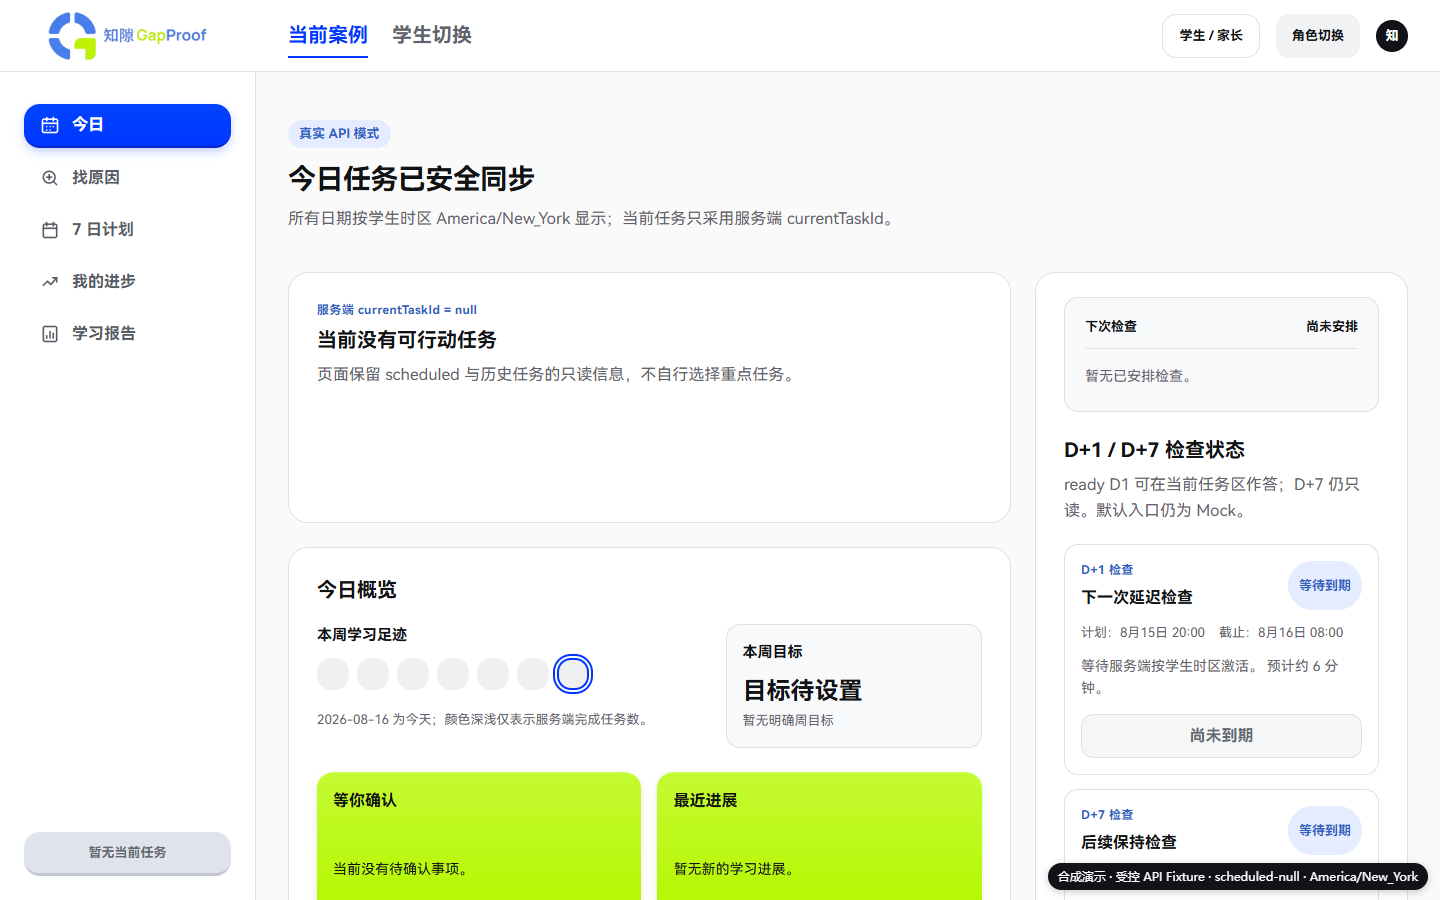
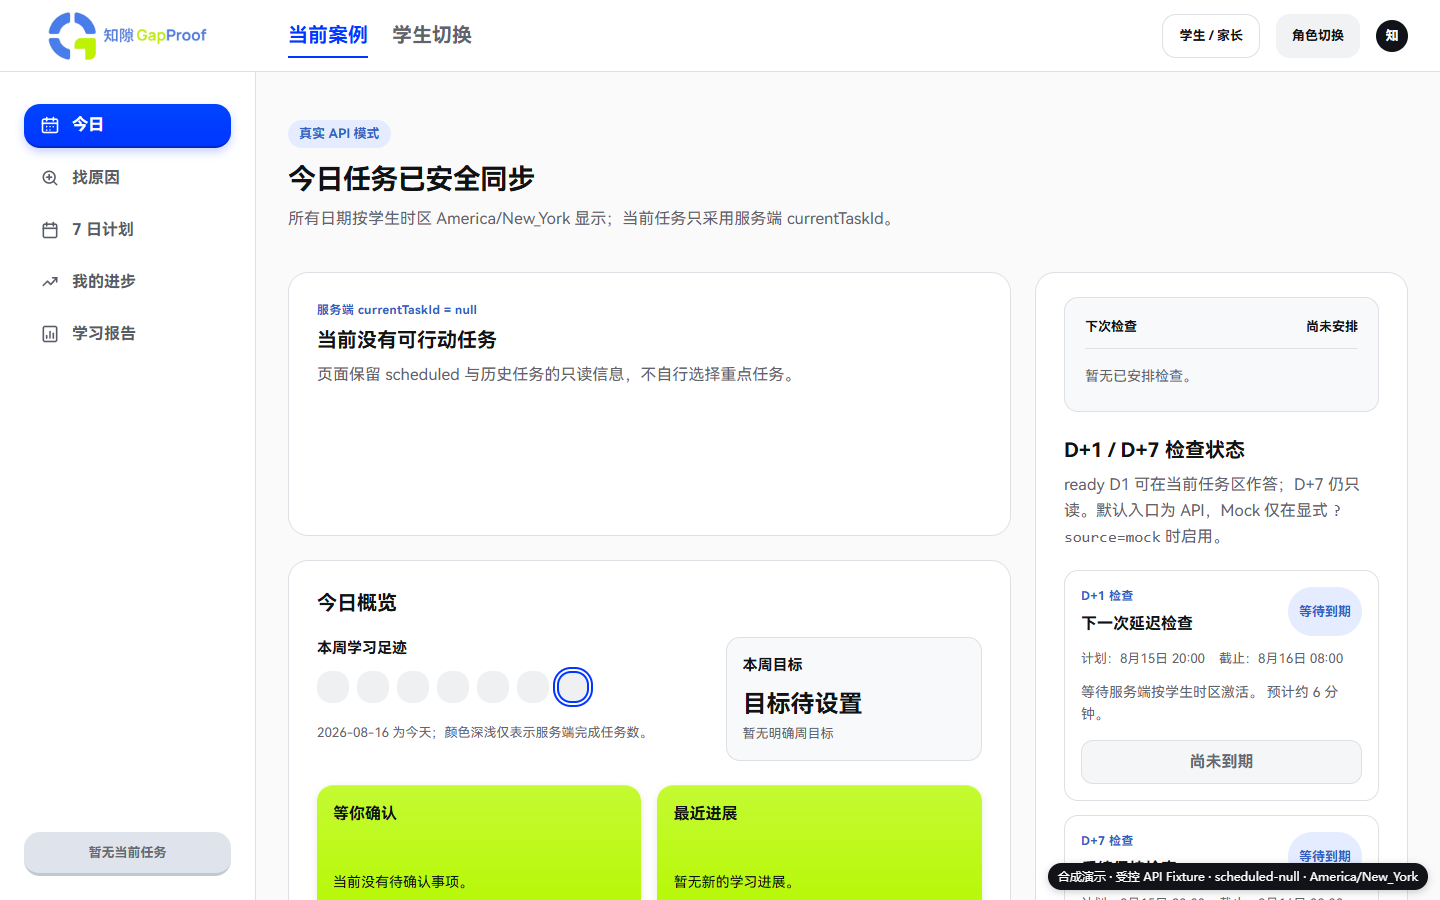
feat: complete guided tasks and cap retest replans

diff --git a/PROJECT_MASTER.md b/PROJECT_MASTER.md
@@ -2,9 +2,9 @@
 project_name: "知隙 GapProof"
 document_title: "GapProof 项目主文档（Project Master / 单一事实源）"
 document_role: "跨窗口协作、产品规划、技术设计、比赛交付与状态管理的唯一主文档"
-version: "0.1.31"
+version: "0.1.32"
 status: "ACTIVE"
-current_stage: "项目本身初赛验收冲刺；PUSH-016 合成识别确认演示与 Fake OCR Demo 守卫已通过最终门禁并发布；真实 OCR/识别写入接口仍待冻结"
+current_stage: "项目本身初赛验收冲刺；PUSH-017 引导任务完成与 D7/两次重排封顶已通过门禁待发布；D7 前端作答和显式识别创建 Case 仍待实现"
 last_updated: "2026-08-15"
 timezone: "Asia/Singapore"
 owner: "项目发起人"
@@ -143,7 +143,7 @@ next_action:
 
 `[FACT]` GOAI 无界应用赛道参赛手册列出的初赛截止日期为 2026-08-16；具体当天截止时刻、入口、文件大小及后续通知仍须在官网、提交系统或官方群再次核对。
 
-`[DECISION]` 当前处于：**项目本身初赛验收冲刺；学生端“今日”页默认入口已接入真实 API 的 ready D1 客户端作答与真实概览投影。`/materials/new` 已在真实字节上传后接入异步、确定性的图片基础检查。PUSH-016 进一步把遗留 Fake OCR 限定为 `simulation && synthetic` 的 Demo Case，并增加 `/materials/demo/review` 无网络合成识别确认演示；该页面只在本地编辑和记录演示确认，不调用 API、不启动 OCR、不创建或推进 Case，也不生成学习结论。真实上传到 Case 的绑定、识别结果读取 DTO、真实 OCR Provider 与识别确认写入仍未冻结或实现。D7 与重排/报告未决策边界保持暂停**。
+`[DECISION]` 当前处于：**项目本身初赛验收冲刺；学生端“今日”页默认入口已接入真实 API，ready guided 与 D1 均有受控提交，服务端已实现 D7 客观复测、最多两次规则化合成重排和 `support_required` 封顶。D7 前端作答仍未接入。当前初赛项目验收允许使用醒目标注的合成 OCR Demo；真实阿里云 OCR 后置。图片基础检查后必须由用户显式执行“开始识别并创建案例”，该真实 Case/OCR 写入契约尚未冻结或实现。异步报告不属于本轮项目验收；`report_ready` 仅保留“报告已生成、有权威引用且当前可读”的严格语义**。
 
 ### 1.2 已完成
 
@@ -175,7 +175,7 @@ next_action:
 - `[RESULT]` 完成干预的同一 PostgreSQL 事务现同时写入 D+1 延迟 `retest.due` Job；独立 Worker 使用 `SystemClock`，仅在 `scheduledFor <= now` 时将指定 Case 的 `d1_retest` 从 `scheduled` 原子激活为 `ready`，重复与并发执行不会产生重复效果。
 - `[RESULT]` 已实现受 `GAPPROOF_DEMO_CLOCK_ENABLED=true` 保护的 `POST /v1/demo/clock/advance`。它为每个合成 Demo Case 持久化独立、带版本的虚拟时间线，可快进并在同一事务激活该 Case 的到期复测、写入 `demo_clock_advanced` 审计；不修改操作系统时间，也不改变 Case 的 `d1_scheduled`、`stateVersion` 或 `pending_retest` mastery。
 - `[RESULT]` 已实现 `GET /v1/tasks/{taskId}` 与 `POST /v1/tasks/{taskId}/attempts` 的 D1 客观复测最小切片。服务端用私有答案执行 `exact-choice-v1`：通过时原子完成 D1、追加 `retest_evaluated { kind:"d1", passed:true }`，并按 `evaluatedAt + 144h` 创建 D7、再给出 12 小时窗口；失败时原子进入 `replan_required` 并入队 `case.replan`，由 Worker 异步生成合成干预骨架。公开响应不含答案键，幂等、并发与乐观锁已有测试覆盖。
-- `[RESULT]` Today contracts 已扩展为服务端学生 `timeZone`、`currentTaskId: uuid | null` 与 guided/D1/D7 判别联合；只有服务端判定的 ready D1 或 guided 任务可成为当前任务。F1c 对 ready D1 使用共享 attempts contracts、权威 Case 版本和 UUIDv7 幂等意图提交；D7 在 attempts 未实现前保持只读。
+- `[RESULT]` Today contracts 已扩展为服务端学生 `timeZone`、`currentTaskId: uuid | null` 与 guided/D1/D7 判别联合；服务端可选择 ready D1/D7/guided。前端已安全提交 guided 与 D1，D7 后端 attempts 已实现但页面仍只读。
 - `[RESULT]` Today API 现始终返回真实只读 `overview`：学生时区下连续 7 日完成数、明确目标或 `null`、待确认数、最多两条脱敏进展与最早 scheduled D1/D7 检查。显式 API 页面严格消费该投影，缺失时受控报错且不回退 Mock；当前数据库没有权威周目标，因此 API 返回 `weeklyGoal:null`，不得从任务或视觉稿推断。
 - `[RESULT]` PostgreSQL `app.source_assets` 与 0006/0007 migrations 保存对象键、SHA-256、MIME、大小、所有权/保留期、处理状态、确定性质量结果与更新时间，不保存文件字节、OCR 文本或答案。共享上传/prepare/status contracts、Fastify 创建/内容 PUT/prepare/读取、HMAC 短期授权、受控目录 `StorageAdapter`、`source_asset.quality_check` Worker 与 `/materials/new` 已形成受测的真实字节上传和图片基础检查闭环；Worker 从存储重新读取并验证字节，解析 JPEG/PNG/WebP header/尺寸，公开响应不含对象键、token、文件名、hash 或 OCR 内容。当前实现是本地 Demo 存储与 `image-header-v1` 检查器，不是生产 S3、完整图片质量模型、OCR，也不会创建 Case 或形成学习结论。
 - `[RESULT]` 遗留 `run-next` Fake OCR 现在由 API 入队前与 Worker 执行时双重守卫，只允许 `simulation=true && synthetic=true` 的 Demo Case；非 Demo Case 返回 `DEMO_CASE_REQUIRED` 且不入队、不写证据。`/materials/demo/review` 提供明确标注的合成识别结果、低置信“请确认”、本地编辑、空态和错误态演示；受控浏览器 Fixture 证明全程零 `/api/v1` 请求。它不是上传后真实识别页面，不会写 Case 或产生学习结论。
@@ -187,7 +187,7 @@ next_action:
 - `[PLANNED]` 尚未建立 30–40 个技能节点及 12 个深度节点的图谱 V0.1。
 - `[PLANNED]` 尚未制作比赛用原创模拟试卷、合成学生轨迹和独立金标集。
 - `[PLANNED]` 尚未确认至少一位英语教育背景人员能否短时抽检核心金标内容。
-- `[PROTOTYPE]` 已建立最小后端 Thin Slice，并完成真实图片字节上传、确定性图片 header/尺寸质量检查、受 Demo 守卫的 Fake OCR、无网络合成识别确认演示、确定性干预生成、今日任务查询、干预提交、D+1 调度/到期/客观评分及失败后的异步重排骨架；尚未形成从真实 OCR 识别到报告的完整端到端 Demo。真实上传到 Case 的绑定、识别读取/确认写入、真实 AI 干预、真实题库、D7 作答评分、可执行的重排上限、真实个性化重排内容、通知和报告仍未实现。
+- `[PROTOTYPE]` 已建立最小后端 Thin Slice，并完成真实图片字节上传、确定性图片 header/尺寸质量检查、受 Demo 守卫的 Fake OCR、无网络合成识别确认演示、确定性干预生成、guided/D1 前端提交、D1/D7 后端评分及两次规则化重排封顶；尚未形成从真实 OCR 识别到修复证明的完整端到端 Demo。显式 Case/OCR 启动、识别读取/确认写入、真实 AI 干预、真实题库、D7 前端、真实个性化内容与通知仍未实现；异步报告本轮 deferred。
 - `[PROTOTYPE]` 学生端“今日”页 F0 Mock、F1b 只读 API、F1c ready D1 客户端作答及真实概览投影已完成对应技术门禁；受控 HTTP 浏览器 Fixture 已证明成功、冲突和网络未知三条交互边界。默认入口现为 API，只有显式 `?source=mock` 使用合成页面；业务主闭环仍未完成，其余学生 P0 页面、家长端页面和评委最小页仍未完成。
 - `[PLANNED]` 尚未完成正式 500 字简介、初赛 PPT、视频、README、数据卡、依赖清单和合规一页纸。
 - `[PLANNED]` 尚未产生可报告的工程评测结果或真实学生学习效果。
@@ -2025,11 +2025,11 @@ review_date:
 | DEC-028 | MVP Agent 固定为六节点 LangGraph.js 图 | accepted | 新增节点必须更新图版本、Schema 和 Golden Cases |
 | DEC-029 | 所有工具先完成接口、Schema、Mock 和错误处理；verify_item/schedule_retest 做 MVP 最小实现 | accepted | 工具边界或 Provider 能力变化 |
 | DEC-030 | escalate_human 先创建待处理记录；analyze_speech/score_writing 暂缓真实能力 | accepted | 真实人工、语音或写作试点启动 |
-| DEC-031 | UUIDv7 + PostgreSQL 16+，完整表结构和删除策略以 TDD v0.3.24 为准 | accepted | 数据规模、扩展支持或合规要求变化 |
+| DEC-031 | UUIDv7 + PostgreSQL 16+，完整表结构和删除策略以 TDD v0.3.25 为准 | accepted | 数据规模、扩展支持或合规要求变化 |
 | DEC-032 | TDD 详细 API 路由为唯一正式接口 | accepted | API 版本升级或新客户端边界产生 |
 | DEC-033 | 杭州阿里云单区域联网 Docker Compose，真实 Provider 演示，Mock 仅测试/故障注入 | accepted | 比赛网络、并发、合规或可用性要求变化 |
 | DEC-034 | DeepSeek `deepseek-v4-flash`、MiniMax `minimax-m3`、腾讯混元 Embedding 作为当前模型配置 | accepted | 账号权限、供应商模型版本或评测结果变化 |
-| DEC-035 | 学生端“今日”页桌面视觉基线已选定；使用 `#0036FF` 导航/进度与 `#B5F800` 行动/积极变化，完整规范以 DESIGN v0.2.21 为准 | accepted | 真实前端实现、可用性测试或品牌资产定稿产生反证 |
+| DEC-035 | 学生端“今日”页桌面视觉基线已选定；使用 `#0036FF` 导航/进度与 `#B5F800` 行动/积极变化，完整规范以 DESIGN v0.2.22 为准 | accepted | 真实前端实现、可用性测试或品牌资产定稿产生反证 |
 | DEC-036 | 新用户今日页先完成第一次检查，不显示虚构的足迹、进展或下次检查；首次任务生成后切换常规今日页 | accepted | onboarding 实测或产品范围变化 |
 | DEC-037 | 目标教材 ISBN 为 `978-7-5720-3630-9`；配套练习 `978-7-5720-3519-7` 不纳入 MVP | accepted | 版权页或出版社正式材料产生冲突 |
 | DEC-038 | 购买教材/试题及完整转换文本保持本地私有并排除 Git；仓库只保存元数据、处理器和项目原创/合成内容 | accepted | 取得可归档的明确再分发许可且完成权利复核 |
@@ -2037,6 +2037,11 @@ review_date:
 | DEC-040 | 前端使用同源 `/api` 代理、共享 `@gapproof/contracts`、Case 版本轮询与方法感知的幂等重试；不得自行发明接口或状态 | accepted | 正式 API 网关、OpenAPI 生成客户端或 SSE 接入 |
 | DEC-041 | 新前后端任务默认 `gpt-5.6-luna/high`；新协调/文档治理任务默认 `gpt-5.6-sol/medium`，并在后续版本和迁移中显式继承 | accepted | 用户另行指定、目标主机不支持或安全恢复要求偏离 |
 | DEC-042 | 本协调目标的初赛验收只覆盖项目本身；简介、PPT/PDF、视频、报名与提交材料不进入完成条件 | accepted | 用户明确扩大本协调目标范围 |
+| DEC-OCR-ACCEPT-001 | 本轮项目验收可使用醒目标注的合成 OCR Demo 与完整可点击工程闭环；真实 OCR Provider 后置 | accepted | 合成 Demo 只证明交互、状态、契约与工程行为，不证明真实识别准确率、个性化或学习效果 |
+| DEC-UPLOAD-CONFIRM-002 | 图片基础检查通过后必须由用户显式执行“开始识别并创建案例”，不得自动创建 Case 或启动 OCR | accepted | 创建/绑定 Case 与启动识别必须是独立、幂等、可审计的用户意图 |
+| DEC-OCR-POLICY-003 | 真实 OCR 采用阿里云读光服务端 HTTPS 调用；初期只处理合成/脱敏材料，未满 18 岁统一要求监护确认，并采用受控凭据和原图短期删除策略 | accepted | 服务已开通不等于已接入；30–50 页独立基准与派生数据留存周期仍 unresolved |
+| DEC-D7-REPLAN-004 | 同一 Case/缺口最多自动重排 2 次：先更换讲解与练习，再下探前置技能并加入示例；再次失败进入 `support_required` | accepted | 封顶后不再自动入队第三轮；规则化合成骨架不等于真实个性化或已接人工服务 |
+| DEC-REPORT-005 | `report_ready` 只表示报告已生成、有权威引用且当前可打开；generating/failed 必须分离，异步报告不纳入本轮项目验收 | accepted / deferred | 报告 DTO、证据引用、失败重试与留存删除仍待冻结 |
 
 ---
 
@@ -2053,7 +2058,7 @@ review_date:
 | 初赛 PPT | `[PLANNED]` | 8–10 页覆盖评分项 | 原型/图表 |
 | 原创模拟试卷 | `[PLANNED]` | 来源自有、已知根因、许可清楚 | 技能示例 |
 | 合成 Case | `[PROTOTYPE]` | 已完成 1 个原创合成 Case 及低置信、复测失败重排、D+7 成功分支；仍需扩充同题同错不同根因与回归集 | 数据 Schema/教材映射 |
-| 学生“今日”页视觉基线 | `[PROTOTYPE]` | 已选定 Stitch 桌面稿；F0/F1b、F1c ready D1 客户端作答、受控 HTTP 浏览器 Fixture 与真实概览投影已合并 `main` 并通过技术门禁；默认入口为 API，合成 Mock 仅显式启用，完整业务写入闭环未完成 | DESIGN v0.2.21 |
+| 学生“今日”页视觉基线 | `[PROTOTYPE]` | 已选定 Stitch 桌面稿；默认 API、真实概览、guided 完成与 ready D1 客户端作答已通过技术门禁，合成 Mock 仅显式启用；D7 后端已可评分但前端作答仍待接入 | DESIGN v0.2.22 |
 | 其余学生/家长关键页设计 | `[PLANNED]` | 覆盖主闭环并遵循今日页设计准则 | 视觉基线 |
 | 可点击 Thin Slice | `[PLANNED]` | 上传到修复证明全链路 | 设计/开发 |
 | 数据与合规页 | `[PLANNED]` | 类型、来源、授权、脱敏、删除、边界 | 数据选择 |
@@ -2112,6 +2117,13 @@ review_date:
 ---
 
 ## 30. 变更日志
+
+### v0.1.32 — 2026-08-15
+
+- 合并学生端 guided intervention 安全完成：权威 Case 版本、UUIDv7 幂等意图、同 key/body 一次网络未知重试、冲突重新确认、GET 失败独立恢复及未知结果锁定；受控浏览器 Fixture 与 API 双视口正常态通过。
+- 合并服务端 D7 `exact-choice-v1` 作答、`repair_verified`、持久 `replan_count`、两次策略及 `support_required` 封顶；D1/D7 幂等兼容、并发、答案脱敏、事务与不再入队均有 PostgreSQL/API/Worker 证据。D7 前端作答仍未实现。
+- 最终确认 DEC-OCR-ACCEPT-001、DEC-UPLOAD-CONFIRM-002、DEC-OCR-POLICY-003、DEC-D7-REPLAN-004 与 DEC-REPORT-005；真实 OCR、显式创建 Case/启动识别、独立 30–50 页基准、派生数据留存和异步报告仍按 accepted/deferred/unresolved 边界处理。
+- 同步 PRD v0.1.24、TDD v0.3.25、DESIGN v0.2.22 与 PUSH-017；本轮仍只证明合成/规则化工程闭环，不证明真实 OCR、真实个性化、人工服务或学习效果。
 
 ### v0.1.31 — 2026-08-15
 

diff --git a/DESIGN.md b/DESIGN.md
@@ -2,9 +2,9 @@
 project_name: "知隙 GapProof"
 document_title: "GapProof 视觉与交互设计文档（DESIGN）"
 document_role: "信息架构、页面、视觉、交互、状态与可访问性的权威文档"
-version: "0.2.21"
+version: "0.2.22"
 status: "DRAFT_FOR_IMPLEMENTATION"
-current_design_stage: "PUSH-016 合成识别确认演示与 Fake OCR Demo 守卫已通过最终门禁并发布；真实识别页面写入仍待冻结"
+current_design_stage: "PUSH-017 guided 完成与 D7/两次重排封顶已通过门禁待发布；D7 前端作答与显式识别创建 Case 仍待实现"
 last_updated: "2026-08-15"
 timezone: "Asia/Singapore"
 canonical_path: "D:\\Users\\Eason\\Documents\\ChatGPT\\知隙GapProof\\DESIGN.md"
@@ -86,11 +86,11 @@ upstream_documents:
 
 ### 0.3.2 当前阶段与下一步
 
-**已完成**：学生端“今日”页的桌面视觉结构、颜色角色、主要卡片层级和关键静态内容已确定；F0/F1b、F1c 及真实 Today overview 已完成对应构建和自动化门禁。F1c 只为服务端当前 ready D1 增加安全作答，使用权威 Case 版本、共享 contracts 和 UUIDv7 幂等意图；受控 HTTP 浏览器 Fixture 已覆盖成功、冲突和网络未知三条真实页面交互路径。无参数入口现展示服务端 7 日足迹、nullable 周目标、待确认数、脱敏进展与下次检查；合成 Mock 仅显式启用。`/materials/new` 已完成真实单图选择、校验、上传、异步基础检查与中性成功/需确认/失败状态。`/materials/demo/review` 新增持久 Demo 标记的无网络合成识别确认演示、本地编辑/确认、空态和错误态；两页均有对应浏览器 Fixture 与双视口截图。
+**已完成**：学生端“今日”页的桌面视觉结构、颜色角色、主要卡片层级和关键静态内容已确定；默认 API、真实 Today overview、ready guided 安全完成与 ready D1 作答已完成对应构建和自动化门禁。两类写入均使用权威 Case 版本、共享 contracts 和 UUIDv7 幂等意图；guided Fixture 额外覆盖 Case GET 失败恢复、冲突重新确认与网络未知锁定。无参数入口展示服务端 7 日足迹、nullable 周目标、待确认数、脱敏进展与下次检查；合成 Mock 仅显式启用。`/materials/new` 已完成真实单图选择、校验、上传、异步基础检查；`/materials/demo/review` 是持久 Demo 标记的无网络合成识别确认演示。服务端 D7 评分和两次重排封顶已有证据，但前端 D7 仍只读。
 
-**尚未完成**：真实模糊度、方向、缺页与恶意文件检查，上传 asset 到 Case 的绑定、OCR/识别结果读取与确认写入；其他学生 P0 页面、家长端页面、Logo 紧裁/SVG/Favicon 与最终品牌规范、完整交互原型。D7 作答、报告及其页面仍未实现。
+**尚未完成**：真实模糊度、方向、缺页与恶意文件检查，上传 asset 到 Case 的显式绑定/启动识别、OCR 结果读取与确认写入；其他学生 P0 页面、家长端页面、Logo 紧裁/SVG/Favicon 与最终品牌规范、完整交互原型。D7 后端可评分但前端作答仍未实现；异步报告本轮 deferred。
 
-**下一步**：先冻结上传 asset↔Case 绑定、识别结果读取 DTO 与确认写入契约，再把真实图片基础检查连接到识别确认；D7 继续只读。任何新字段不得从视觉稿或合成 Fixture 反推业务状态。
+**下一步**：先接入 D7 前端安全作答，再冻结“开始识别并创建案例”的独立幂等意图、asset↔Case 绑定、识别结果读取 DTO 与确认写入契约。任何新字段不得从视觉稿或合成 Fixture 反推业务状态。
 
 ### 0.4 设计底线
 
@@ -478,9 +478,11 @@ Tab 规则：
 - 上传失败；
 - 可以继续。
 
-**主操作**：“检查图片内容”。
+**首个主操作**：“检查图片内容”。基础检查成功后的独立主操作为“开始识别并创建案例”。
 
 当前 `[PROTOTYPE]` 页面开放单张 JPEG/PNG/WebP、1B–10MiB 的“开始上传”。上传期间锁定重复提交；上传后自动进入基础检查，依次展示 preparing/queued/processing，并在 30 秒内按 1s→2s→3s 读取权威状态；隐藏或离页停止轮询。低分辨率等确定性原因进入需确认，失败/可重试/超时均有中性恢复文案；成功只显示“图片基础检查通过，识别尚未开始，不会自动生成学习结论”，并允许重新选择。页面不得显示短期 token、对象键、内部 asset ID、服务端文件名、hash、OCR 文本或置信度；当前还不能进入 `/materials/:id/review` 或展示 OCR 结果。
+
+基础检查成功不得自动创建/绑定 Case 或启动 OCR。页面先展示处理说明，再由用户显式点击“开始识别并创建案例”；该动作将来必须对应独立、幂等、可审计的用户意图。真实 OCR 启动前还要展示阿里云处理告知、不得用于训练的说明和监护确认状态；未满 18 岁未确认时按钮不可用。当前这些真实写入与状态尚未实现，不能用 Demo 本地确认替代。
 
 **错误文案示例**：
 
@@ -923,6 +925,8 @@ flowchart LR
 - 家长建议。
 
 报告默认不展示模型名称、技术置信度和工具日志。
+
+异步报告页面本轮 deferred。后续加载态必须区分“正在生成”“可以查看”“生成失败”；只有报告已成功生成、具有权威证据引用且当前可打开时才能显示“报告已准备好”。queued/processing 不得显示为 ready，合成报告不得冒充真实学生报告或学习效果。
 
 ### 6.6 时间、通知与隐私 `/parent/settings`
 
@@ -1469,7 +1473,7 @@ MVP 不使用雷达图表示英语能力或掌握度，原因：
 
 当前后端可从 `intervention_ready` 生成 `guided_intervention`，并通过今日任务接口返回公开任务视图。页面只渲染 `LearningTaskView` 中的标题、理由、预计时间和步骤；不得推断或展示内部候选错因、答案键、工具 warnings 或内部版本。
 
-学习任务提交使用 `idle → submitting → completed`，旁路为 `conflict`、`invalid`、`failed`。提交前必须确保 `completedStepIds` 恰好覆盖全部步骤；提交中禁用重复点击但保留本地勾选。成功后展示“本次练习已完成，明天会有一次短检查”，并使用服务端 `scheduledRetest.scheduledFor` 按学生时区显示时间；不得表述为“已经修复”或“已经掌握”。D+1 任务为 `scheduled` 时 CTA 不可提前作答；服务端变为 `ready` 后，F1c 使用共享 attempts contracts、权威 `expectedVersion` 与同一 UUIDv7 幂等意图提交。`VERSION_CONFLICT` 只刷新并要求重新确认；网络结果两次未知后锁定选择和提交。D7 在其 attempts 实现前始终只读。Demo 虚拟时钟只供演示控制，不由普通学生页面自行调用。
+学习任务提交使用 `idle → submitting → completed`，旁路为 `conflict`、`invalid`、`failed`。提交前必须确保 `completedStepIds` 恰好覆盖全部步骤；提交中禁用重复点击但保留本地勾选。成功后展示“本次练习已完成，明天会有一次短检查”，并使用服务端 `scheduledRetest.scheduledFor` 按学生时区显示时间；不得表述为“已经修复”或“已经掌握”。guided 与 ready D1 均使用共享 contracts、权威 `expectedVersion` 与同一 UUIDv7 幂等意图提交；`VERSION_CONFLICT` 只刷新并要求重新确认，网络结果两次未知后锁定选择和提交。D1 返回 `support_required` 时显示“已达到两次自动调整上限，需要老师或家长协助”，不得暗示已接真实人工服务。D7 后端 attempts 已实现，但前端作答仍只读；后续接入必须复用同一安全状态机。Demo 虚拟时钟只供演示控制，不由普通学生页面自行调用。
 
 ---
 
@@ -1772,6 +1776,13 @@ MVP 不使用雷达图表示英语能力或掌握度，原因：
 ---
 
 ## 22. 版本记录
+
+### v0.2.22 — 2026-08-15
+
+- 发布 ready guided 安全完成交互与 D1 `support_required` 封顶文案；浏览器 Fixture 覆盖 Case 同步失败、冲突重新确认和网络未知锁定，API 双视口保持 Stitch V1.1 结构与深色卡书本越界裁切。
+- 登记 D7 后端已可评分但前端仍只读；`repair_verified` 不等于报告可读，异步报告页面本轮 deferred。
+- 冻结基础检查后的显式“开始识别并创建案例”产品动作，以及阿里云处理告知、未满 18 岁监护确认和原图短期删除的页面要求；真实接口与状态仍未实现。
+- 同步 PROJECT_MASTER v0.1.32、PRD v0.1.24、TDD v0.3.25 与 PUSH-017；规则化合成重排不称真实个性化或人工服务。
 
 ### v0.2.21 — 2026-08-15
 
